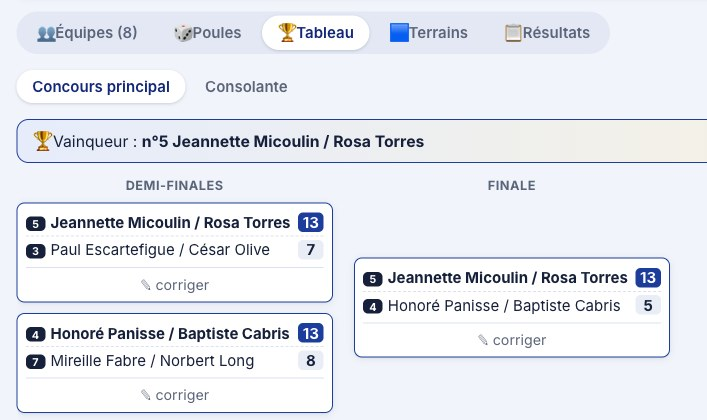
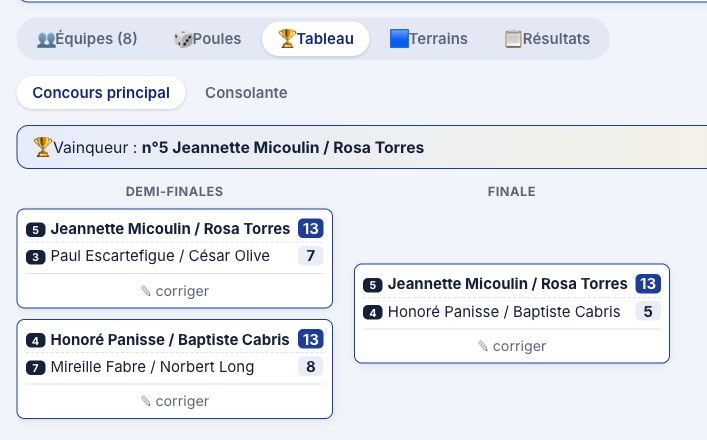
Apply the fifth four-tool review
- fix the projects grid between 769 and 1024px: the featured card
  keeps the full width and the Homelab card becomes a row
- not-found and legal pages: space under the heading and above the
  back link; the not-found page fills the screen
- hero capture re-cropped with even margins
- baseline alignment of the security, hosting and sites block

Claude-Session: https://claude.ai/code/session_01SySVUFzPpryXicbpoiHcY2

diff --git a/style.css b/style.css
@@ -207,7 +207,7 @@ strong { font-weight: 600; color: var(--ink); }
 .hero__stage figcaption { margin-block-start: 0.875rem; font-size: 0.875rem; color: var(--ink-2); }
 /* The frame takes the logo's geometry: two rounded corners, two cut ones */
 .frame {
-  display: block; overflow: hidden; aspect-ratio: 707 / 420;
+  display: block; overflow: hidden; aspect-ratio: 707 / 440;
   background: var(--card);
   border-radius: var(--r-xl) var(--r-cut) var(--r-xl) var(--r-cut);
   box-shadow: 0 0 0 1px var(--line-strong), var(--shadow-3);
@@ -255,7 +255,7 @@ strong { font-weight: 600; color: var(--ink); }
 @media (max-width: 60rem) { .steps { grid-template-columns: repeat(2, minmax(0, 1fr)); } }
 @media (max-width: 30rem) { .steps { grid-template-columns: minmax(0, 1fr); } }
 
-.also { display: grid; grid-template-columns: repeat(4, minmax(0, 1fr)); gap: 1rem clamp(1rem, 2.5vw, 2rem); margin-block-start: clamp(2rem, 4vw, 3rem); }
+.also { display: grid; align-items: baseline; grid-template-columns: repeat(4, minmax(0, 1fr)); gap: 1rem clamp(1rem, 2.5vw, 2rem); margin-block-start: clamp(2rem, 4vw, 3rem); }
 .also h3 { font-size: 1.125rem; }
 .also__list { grid-column: 2 / -1; display: grid; gap: 0.75rem; color: var(--ink-2); }
 @media (max-width: 46rem) { .also { grid-template-columns: minmax(0, 1fr); } .also__list { grid-column: auto; } }
@@ -289,7 +289,13 @@ strong { font-weight: 600; color: var(--ink); }
 }
 .project__links a:hover { color: var(--blue-text); }
 .private { margin-block-start: 1rem; margin-inline-start: -0.875rem; padding: 0.625rem 0.875rem; border: 1px solid transparent; border-radius: var(--r-sm); color: var(--ink-2); }
-@media (max-width: 64rem) { .project { grid-column: span 3; } .project:nth-child(4) { grid-column: 1 / -1; } }
+@media (max-width: 64rem) { .project { grid-column: span 3; } .project--lead, .project:nth-child(4) { grid-column: 1 / -1; } }
+@media (min-width: 48.0625rem) and (max-width: 64rem) {
+  .project:nth-child(4) { flex-direction: row; }
+  .project:nth-child(4) .project__shot { flex: 0 0 56%; border-block-end: 0; border-inline-end: 1px solid var(--line); }
+  .project:nth-child(4) .project__body { justify-content: center; padding: clamp(1.5rem, 3vw, 2.5rem); }
+  .project:nth-child(4) .project__links { margin-block-start: 0; }
+}
 @media (max-width: 48rem) {
   .project, .project:nth-child(4) { grid-column: 1 / -1; }
   .project--lead { flex-direction: column; }
@@ -341,12 +347,14 @@ strong { font-weight: 600; color: var(--ink); }
 .foot__end a { display: inline-flex; align-items: center; min-height: 2.75rem; color: var(--ink-2); text-decoration: underline; text-decoration-color: var(--line-strong); text-underline-offset: 0.2em; transition: color 0.2s var(--ease); }
 .foot__end a:hover { color: var(--ink); }
 
-/* Legal page */
+/* Legal and not-found pages */
+.page-short { min-height: 100dvh; display: flex; flex-direction: column; }
+.page-short main { flex: 1; }
 .legal__in { max-width: 40rem; margin-inline: max(var(--gutter), (100% - 72.5rem) / 2) auto; }
 .legal h1 { font-size: clamp(2rem, 1.4rem + 2.4vw, 2.75rem); letter-spacing: -0.03em; }
 .legal h2 { margin-block: 2.5rem 0.75rem; font-size: 1.25rem; letter-spacing: -0.02em; }
 .legal p { color: var(--ink-2); }
-.legal p + p { margin-block-start: 0.75rem; }
+.legal p + p, .legal h1 + p { margin-block-start: 0.75rem; }
 .legal a { color: var(--ink); text-decoration: underline; text-decoration-color: var(--blue-text); text-decoration-thickness: 1.5px; text-underline-offset: 0.2em; transition: color 0.2s var(--ease); }
 .legal a:hover { color: var(--blue-text); }
 .legal__list { margin-block-start: 1rem; border-block-start: 1px solid var(--line); }
@@ -355,7 +363,7 @@ strong { font-weight: 600; color: var(--ink); }
 .legal__list dd { color: var(--ink-2); }
 .legal__list a { display: inline-block; padding-block: 0.25rem; }
 .legal__back a { display: inline-flex; align-items: center; min-height: 2.75rem; }
-.legal__back { margin-block-start: 2.5rem; }
+.legal .legal__back { margin-block-start: 2.5rem; }
 @media (max-width: 34rem) { .legal__list div { grid-template-columns: minmax(0, 1fr); } }
 
 /* ---------- Motion: one load sequence ---------- */

diff --git a/index.html b/index.html
@@ -81,7 +81,7 @@
           <a class="frame" href="#p-petanque" tabindex="-1" aria-hidden="true">
             <picture>
               <source type="image/webp" srcset="images/screens/petanque-tableau.webp">
-              <img src="images/screens/petanque-tableau.jpg" width="707" height="420" alt="" fetchpriority="high">
+              <img src="images/screens/petanque-tableau.jpg" width="707" height="440" alt="" fetchpriority="high">
             </picture>
           </a>
           <figcaption>Dans <a href="#p-petanque">Pétanque Concours</a>&nbsp;: le tableau d’un concours d’exemple, utilisable même sans réseau.</figcaption>

diff --git a/404.html b/404.html
@@ -15,7 +15,7 @@
   <link rel="stylesheet" href="/style.css">
   <script src="/theme.js"></script>
 </head>
-<body>
+<body class="page-short">
   <a class="skip" href="#contenu">Aller au contenu</a>
 
   <header class="nav">
